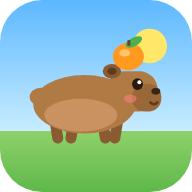
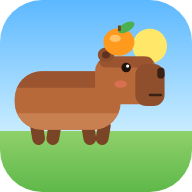
Versión 0.2: nuevo dibujo del capibara, nuevo personaje Gallo con doble salto y kikirikí, íconos actualizados

Changed region(s): [[0.0625, 0.0938, 0.875, 0.7812]]

diff --git a/game.js b/game.js
@@ -1,13 +1,14 @@
 // Capi Corre — juego de carreras infinito con un capibara
 (function(){
 'use strict';
-const VERSION='0.1.1';
+const VERSION='0.2';
 const $=id=>document.getElementById(id);
 const cv=$('c'),ctx=cv.getContext('2d');
 const LS={get(k,d){try{const v=localStorage.getItem('capi_'+k);return v===null?d:JSON.parse(v)}catch(e){return d}},set(k,v){try{localStorage.setItem('capi_'+k,JSON.stringify(v))}catch(e){}}};
 const CHARS=[
  {id:'capi',name:'Capibara',price:0,desc:'Tranquilo y veloz. ¡Cuida su mandarina!'},
- {id:'gallina',name:'Gallina',price:150,desc:'Aletea al saltar. Mantén pulsado para planear.'}
+ {id:'gallina',name:'Gallina',price:150,desc:'Aletea al saltar. Mantén pulsado para planear.'},
+ {id:'gallo',name:'Gallo',price:300,desc:'¡Kikirikí! Salta más alto y aletea otra vez en el aire (doble salto).'}
 ];
 let save={best:LS.get('best',0),coins:LS.get('coins',0),owned:LS.get('owned',['capi']),sel:LS.get('sel','capi'),mute:LS.get('mute',false),tut:LS.get('tut',false)};
 function persist(){LS.set('best',save.best);LS.set('coins',save.coins);LS.set('owned',save.owned);LS.set('sel',save.sel);LS.set('mute',save.mute);LS.set('tut',save.tut)}
@@ -48,6 +49,7 @@ const sfx={
  splash(){tone(700,0.2,'sine',180,0.12)},
  duck(){tone(260,0.08,'triangle',160,0.08)},
  click(){tone(660,0.06,'triangle',null,0.08)},
+ kiki(){if(save.mute||!ac)return;[[700,1100,0.09],[1100,900,0.09],[900,1400,0.12],[1400,800,0.28]].forEach(([a,b,d],i,arr)=>{const t0=arr.slice(0,i).reduce((s,x)=>s+x[2]*1000,0);setTimeout(()=>tone(a,d,'sawtooth',b,0.07),t0)})},
  record(){[523,659,784,1047].forEach((f,i)=>setTimeout(()=>tone(f,0.14,'square',null,0.08),i*110))}
 };
 function setMute(){$('muteBtn').textContent=save.mute?'🔇':'🔊'}
@@ -69,11 +71,14 @@ let ptr=null;
 function jumpPress(){
  if(state!=='play'||p.dead)return;
  p.hold=true;
+ const ch=save.sel;
  if(p.ground){
-  const hen=save.sel==='gallina';
-  p.vy=hen?-680:-730;p.ground=false;p.holdT=0;p.squash=-1;jumpsDone++;
-  hen?sfx.flap():sfx.jump();if(hen)p.flapT=0.3;
+  p.vy=ch==='gallina'?-680:ch==='gallo'?-790:-730;p.ground=false;p.holdT=0;p.squash=-1;jumpsDone++;p.air2=ch==='gallo';
+  ch==='capi'?sfx.jump():sfx.flap();if(ch!=='capi')p.flapT=0.3;
   puff(p.x-6,GY,5,'#e8d3a8');
+ }else if(p.air2&&!p.duck){
+  p.air2=false;p.vy=-620;p.holdT=0.1;p.flapT=0.3;sfx.flap();
+  for(let i=0;i<6;i++)parts.push({x:p.x-8,y:GY+p.y-20,vx:R(-90,-20),vy:R(-30,60),life:0.4,max:0.4,r:R(2,3.5),c:i%2?'#1e9e6a':'#ff8a1f',g:100});
  }
 }
 function jumpRelease(){p&&(p.hold=false)}
@@ -108,7 +113,7 @@ document.addEventListener('visibilitychange',()=>{if(document.hidden&&state==='p
 function show(id){['title','over','shop','paused'].forEach(s=>$(s).classList.toggle('hidden',s!==id));}
 function refreshTitle(){$('tBest').textContent=save.best;$('tCoins').textContent=save.coins;}
 function startGame(){
- audio();sfx.click();reset();state='play';show(null);
+ audio();sfx.click();reset();state='play';if(save.sel==='gallo')setTimeout(sfx.kiki,150);show(null);
  $('hud').classList.remove('hidden');$('duckBtn').classList.remove('hidden');$('pauseBtn').classList.remove('hidden');
 }
 function toTitle(){state='title';reset();refreshTitle();show('title');$('hud').classList.add('hidden');$('duckBtn').classList.add('hidden');$('pauseBtn').classList.add('hidden');}
@@ -135,7 +140,7 @@ function buildShop(){
    if(b.disabled)b.textContent='🪙 '+c.price+' (faltan '+(c.price-save.coins)+')';
    b.onclick=()=>{if(save.coins>=c.price){save.coins-=c.price;save.owned.push(c.id);save.sel=c.id;persist();sfx.record();buildShop();}};}
   d.appendChild(b);box.appendChild(d);
-  const g=pc.getContext('2d');g.scale(2,2);g.translate(55,70);g.scale(1.25,1.25);
+  const g=pc.getContext('2d');g.scale(2,2);g.translate(c.id==='capi'?48:55,76);const k=c.id==='capi'?1.15:1.05;g.scale(k,k);
   drawHero(g,c.id,{y:0,vy:0,ground:true,duck:false,squash:0,anim:0.3,orangeY:0,flapT:0,glide:false,rot:0});
   if(!owned){g.setTransform(1,0,0,1,0,0);g.fillStyle='rgba(255,255,255,.55)';g.fillRect(0,0,220,160);g.font='60px sans-serif';g.textAlign='center';g.fillText('🔒',110,105);}
  });
@@ -181,9 +186,11 @@ function puff(x,y,n,col){for(let i=0;i<n;i++)parts.push({x,y,vx:R(-90,30),vy:R(-
 
 // ---------- actualización ----------
 function hb(){ // caja de choque del jugador
- const hen=save.sel==='gallina';
- if(p.duck&&p.ground)return{x:p.x-26,y:GY+p.y-22,w:54,h:20};
- return hen?{x:p.x-14,y:GY+p.y-38,w:30,h:36}:{x:p.x-24,y:GY+p.y-36,w:50,h:34};
+ const ch=save.sel;
+ if(p.duck&&p.ground)return ch==='capi'?{x:p.x-30,y:GY+p.y-26,w:68,h:24}:ch==='gallo'?{x:p.x-14,y:GY+p.y-36,w:32,h:34}:{x:p.x-14,y:GY+p.y-26,w:32,h:24};
+ if(ch==='gallina')return{x:p.x-14,y:GY+p.y-42,w:30,h:40};
+ if(ch==='gallo')return{x:p.x-14,y:GY+p.y-52,w:34,h:50};
+ return{x:p.x-30,y:GY+p.y-44,w:66,h:40};
 }
 function ov(a,b){return a.x<b.x+b.w&&a.x+a.w>b.x&&a.y<b.y+b.h&&a.y+a.h>b.y}
 function update(dt){
@@ -378,7 +385,7 @@ function drawHero(g,id,st){
  if(st.squash>0){sx=1+st.squash*0.25;sy=1-st.squash*0.22;}
  if(st.duck){sx*=1.12;sy*=0.66;}
  g.scale(sx,sy);
- if(id==='gallina')hen(g,st);else capy(g,st);
+ if(id==='gallina')hen(g,st);else if(id==='gallo')rooster(g,st);else capy(g,st);
  g.restore();
 }
 function legs(g,st,xs,len,col,w){
@@ -387,22 +394,48 @@ function legs(g,st,xs,len,col,w){
   g.beginPath();g.moveTo(x,-len);g.lineTo(x+Math.sin(a)*len*0.8,-Math.cos(a)*len*0.15);g.stroke();});
 }
 function capy(g,st){
- legs(g,st,[-16,-6,10,18],10,'#8a5a30',6);
- ell(g,0,-20,28,16,'#b07a45');
- ell(g,-2,-14,20,9,'#c99260');
- ell(g,-24,-24,6,5,'#b07a45');
- rr(g,12,-38,28,22,10);g.fillStyle='#b07a45';g.fill();
- rr(g,26,-31,16,15,7);g.fillStyle='#9a6838';g.fill();
- ell(g,15,-38,5,4,'#8a5a30');ell(g,15,-38,2.5,2,'#5e3a1f');
- ell(g,29,-31,3,3.2,'#2a1a10');ell(g,30,-32,1.1,1.1,'#fff');
- ell(g,39,-27,2.4,1.8,'#3a2416');
- ell(g,25,-23,3.5,2.2,'rgba(255,130,130,.55)');
- g.strokeStyle='#5e3a1f';g.lineWidth=1.3;g.beginPath();g.moveTo(36,-21);g.quadraticCurveTo(38,-19,40,-21);g.stroke();
+ // patas cortas y gruesas
+ legs(g,st,[-22,-12,6,15],8,'#7a4526',7);
+ // cuerpo de barril
+ rr(g,-34,-38,58,32,15);g.fillStyle='#b8693a';g.fill();
+ g.save();rr(g,-34,-38,58,32,15);g.clip();g.fillStyle='#9a5530';g.fillRect(-36,-40,62,11);
+ g.fillStyle='#c98050';g.fillRect(-36,-15,62,10);g.restore();
+ // cabeza grande y rectangular
+ rr(g,10,-46,34,26,8);g.fillStyle='#b8693a';g.fill();
+ g.fillStyle='#9a5530';rr(g,12,-46,30,6,4);g.fill();
+ // hocico ancho y plano
+ rr(g,32,-42,16,23,6);g.fillStyle='#8f4f2c';g.fill();
+ rr(g,44,-40,4,6,2);g.fillStyle='#3a2114';g.fill();
+ g.strokeStyle='#3a2114';g.lineWidth=1.4;g.lineCap='round';g.beginPath();g.moveTo(40,-25);g.lineTo(46,-25);g.stroke();
+ // orejitas arriba
+ ell(g,16,-47,4.5,4,'#8f4f2c');ell(g,16,-47,2.2,2,'#5e3220');
+ // ojo pequeño y alto
+ ell(g,27,-40,2.6,2.6,'#1e120a');ell(g,27.8,-40.8,0.9,0.9,'#fff');
+ ell(g,24,-31,3.5,2,'rgba(255,120,110,.45)');
  // mandarina
- const oy=-46+(st.orangeY||0);
- ell(g,24,oy,8.5,7.5,'#ff9a1f');ell(g,22,oy-2,3,2,'#ffc46a');
+ const oy=-54+(st.orangeY||0);
+ ell(g,23,oy,8.5,7.5,'#ff9a1f');ell(g,21,oy-2,3,2,'#ffc46a');
  g.fillStyle='#4caf50';g.beginPath();g.ellipse(27,oy-8,5,2.4,-0.5,0,Math.PI*2);g.fill();
- g.fillStyle='#6b4423';g.fillRect(23.5,oy-9,1.6,3);
+ g.fillStyle='#6b4423';g.fillRect(22.5,oy-9,1.6,3);
+}
+function rooster(g,st){
+ legs(g,st,[-3,6],17,'#ffb000',3.2);
+ // cola arqueada
+ const tail=[['#1e9e6a',-0.2],['#16a3b5',0.25],['#ff8a1f',0.7],['#2bbf5a',1.1]];
+ g.lineCap='round';
+ tail.forEach(([c,a],i)=>{g.strokeStyle=c;g.lineWidth=6-i*0.6;g.beginPath();g.moveTo(-12,-30);
+  g.quadraticCurveTo(-30-i*2,-62+a*14,-34+i*3,-30+a*10);g.stroke();});
+ ell(g,0,-30,17,14,'#c8452a');ell(g,2,-26,12,9,'#ffd166');
+ // cuello alto
+ g.fillStyle='#e67a2a';g.beginPath();g.moveTo(4,-38);g.quadraticCurveTo(8,-52,12,-58);g.lineTo(20,-54);g.quadraticCurveTo(16,-44,14,-34);g.fill();
+ ell(g,15,-56,9,9,'#f3a03a');
+ // cresta grande y barbas
+ ell(g,9,-66,4,4.5,'#ff2d2d');ell(g,14,-68,4.5,5,'#ff2d2d');ell(g,19,-65,4,4.5,'#ff2d2d');
+ ell(g,21,-48,3,5,'#ff2d2d');
+ g.fillStyle='#ffb000';g.beginPath();g.moveTo(22,-58);g.lineTo(30,-55);g.lineTo(22,-52);g.fill();
+ ell(g,17,-58,2.3,2.5,'#222');ell(g,17.8,-59,0.9,0.9,'#fff');
+ const flap=st.flapT>0?Math.sin(st.flapT*40)*0.9:(st.ground?Math.sin(st.anim*0.5)*0.15:0.3);
+ g.save();g.translate(-2,-32);g.rotate(flap);ell(g,-3,4,12,7,'#8e2f1c');g.restore();
 }
 function hen(g,st){
  legs(g,st,[-4,5],12,'#ff9a1f',3);
@@ -429,7 +462,7 @@ function drawHUDText(){
  ctx.fillStyle='rgba(255,255,255,.92)';rr(ctx,VW/2-w/2,y-fs,w,fs*2,fs);ctx.fill();
  ctx.fillStyle='#6b3f1f';ctx.fillText(t,VW/2,y+fs*0.35);
  const s=Math.sin(time*5);ctx.font=(fs*1.5)+'px sans-serif';ctx.fillText('👆',VW/2+w/2-20,y+fs*2.2+s*4);
- if(save.sel==='gallina'){ctx.font='bold '+(fs*0.8)+'px sans-serif';ctx.fillStyle='#fff';ctx.fillText('Mantén pulsado para planear',VW/2,y+fs*2.4);}
+ if(save.sel!=='capi'){ctx.font='bold '+(fs*0.8)+'px sans-serif';ctx.fillStyle='#fff';ctx.fillText(save.sel==='gallo'?'Toca otra vez en el aire para doble salto':'Mantén pulsado para planear',VW/2,y+fs*2.4);}
  ctx.globalAlpha=1;
 }
 function draw(){

diff --git a/index.html b/index.html
@@ -12,7 +12,7 @@
 <meta name="apple-mobile-web-app-status-bar-style" content="black-translucent">
 <meta name="apple-mobile-web-app-title" content="Capi Corre">
 <title>Capi Corre</title>
-<link rel="stylesheet" href="style.css?v=2">
+<link rel="stylesheet" href="style.css?v=3">
 </head>
 <body>
 <canvas id="c"></canvas>
@@ -62,6 +62,6 @@
   <p class="sub">Capi corre mejor en horizontal</p>
   <button id="portraitBtn" class="mid">Jugar en vertical</button>
 </div>
-<script src="game.js?v=2"></script>
+<script src="game.js?v=3"></script>
 </body>
 </html>

diff --git a/sw.js b/sw.js
@@ -1,5 +1,5 @@
 // Service worker de Capi Corre: juego sin conexión
-const V='2';
+const V='3';
 const CACHE='capi-corre-v'+V;
 const ASSETS=['./','./index.html','./style.css?v='+V,'./game.js?v='+V,'./manifest.webmanifest',
  './icons/icon-192.png','./icons/icon-512.png','./icons/icon-maskable-512.png','./icons/apple-touch-icon.png'];
